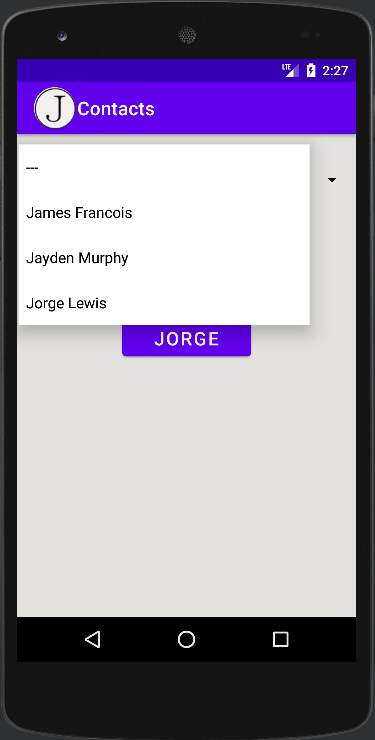
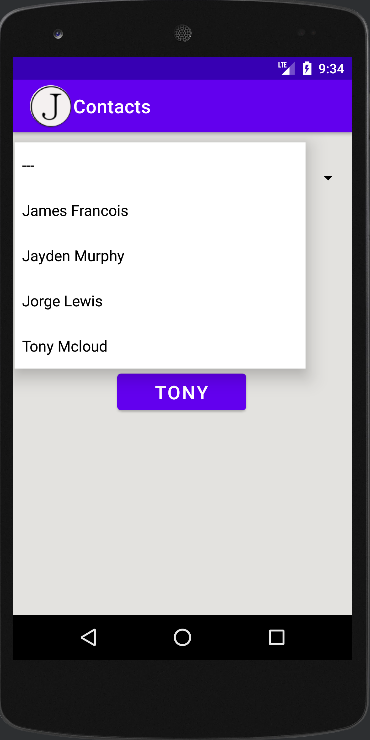
changed a1 README.md

diff --git a/a1/README.md b/a1/README.md
@@ -50,6 +50,11 @@
 | -------------- | --------------|
 | ![2nd Contact information](img/2nd.png) | ![ 3rd Contact information](img/3rd.png) |
 
+* Screenshot of 4th  contacts information
+![4th Contact information ](img/4th.png)
+
+
+
 #### Tutorial Links:
 
 *Bitbucket Tutorial - Station Locations:*
